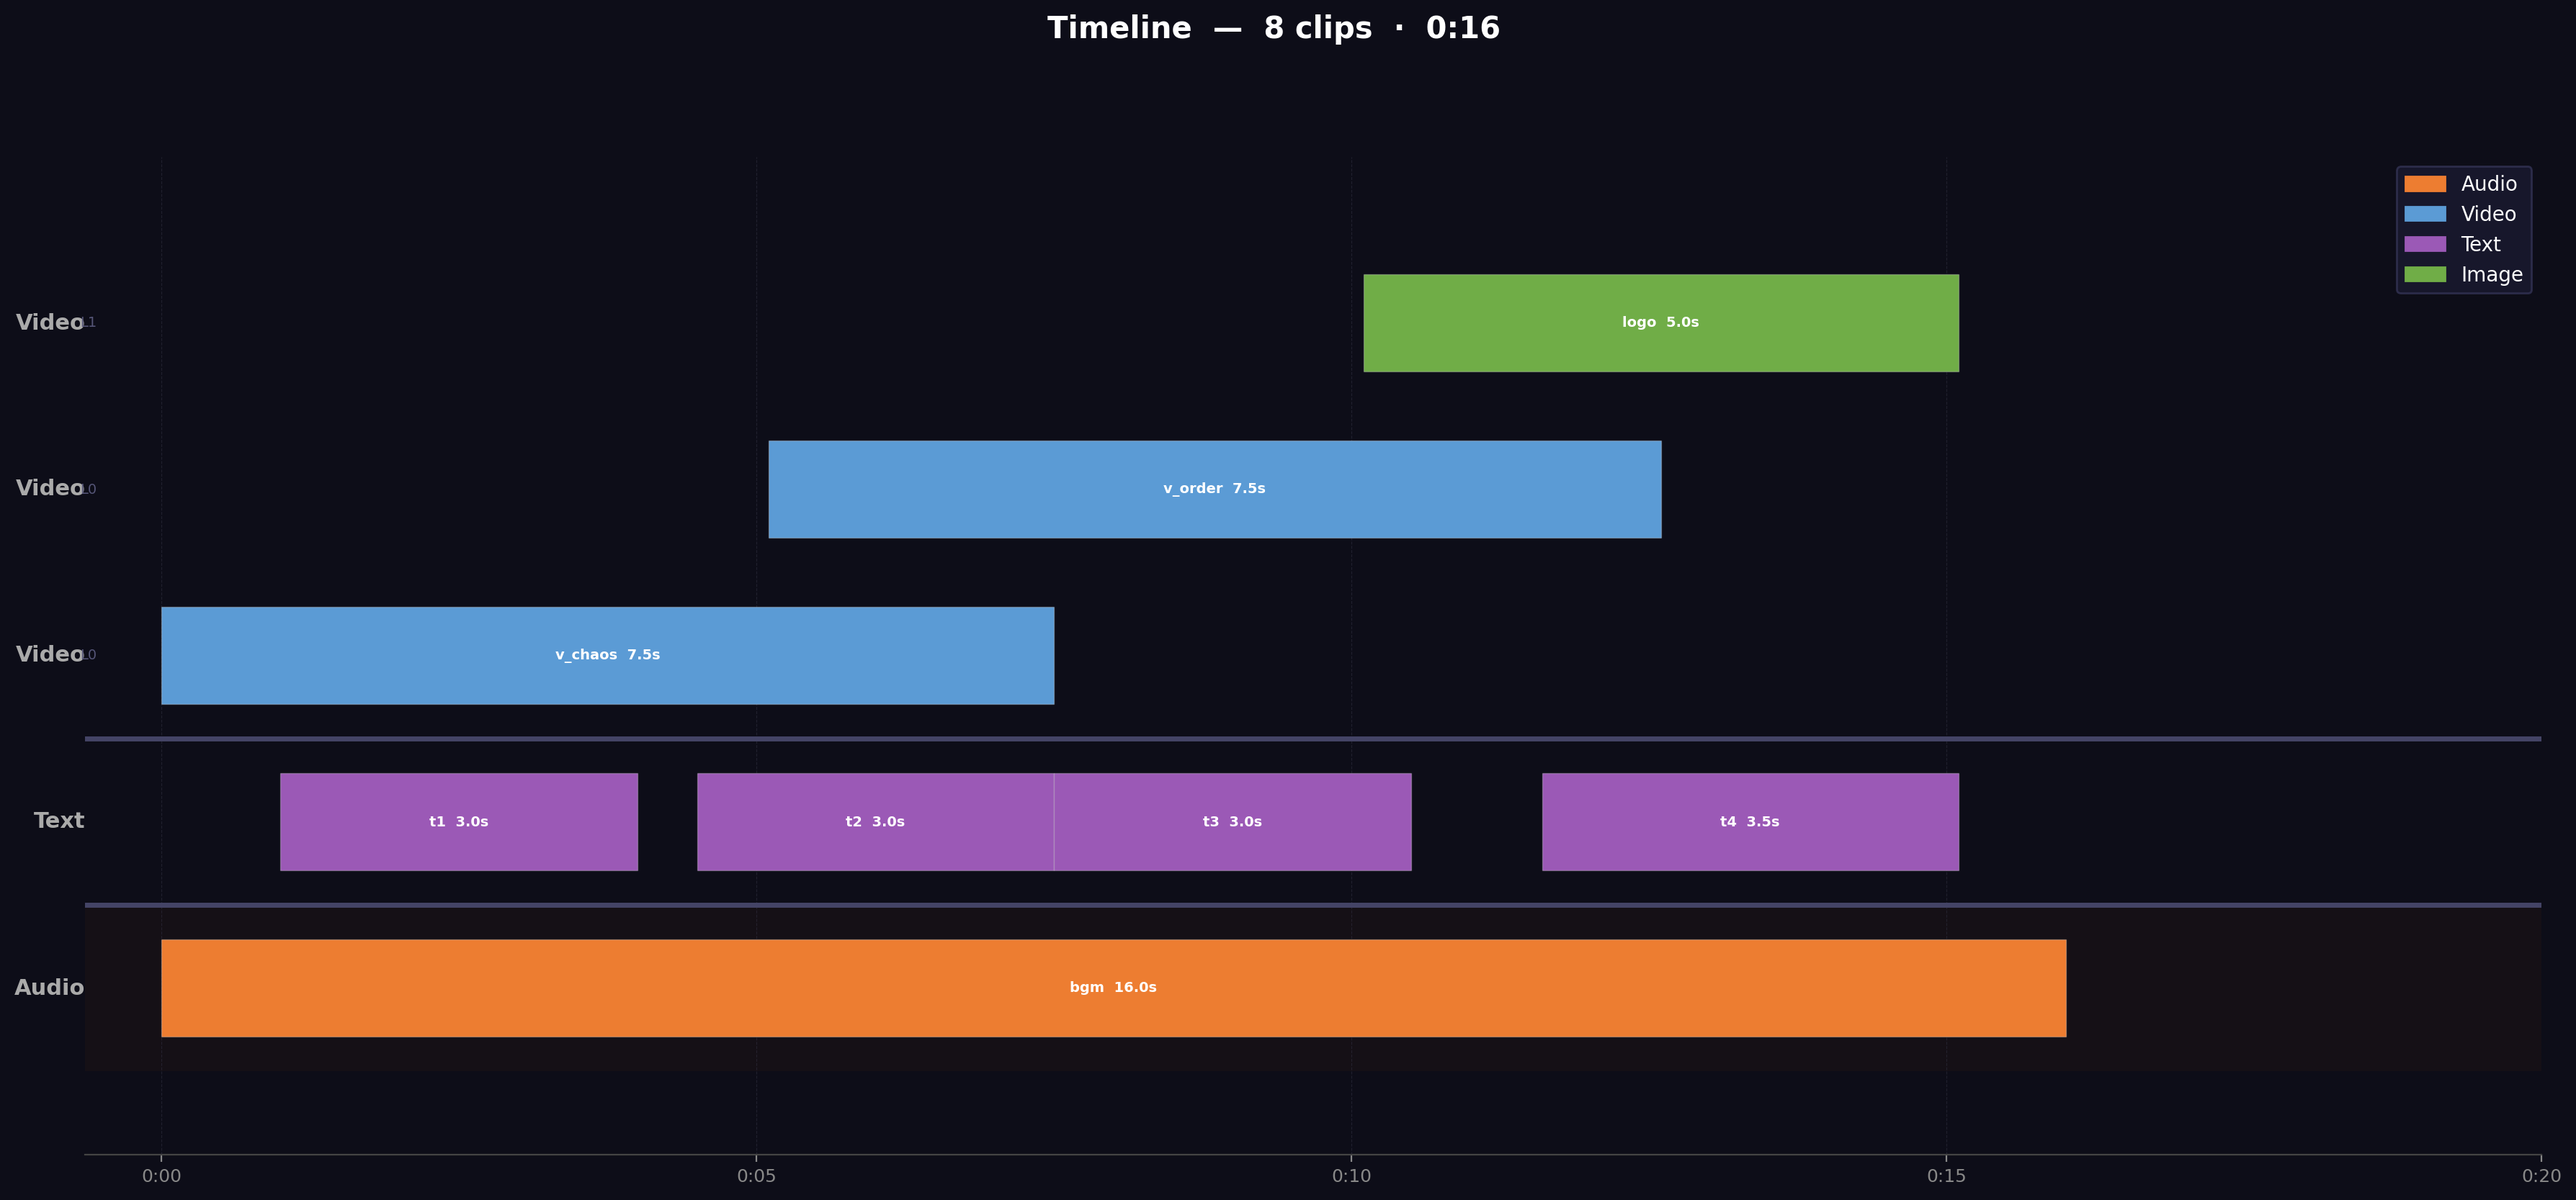
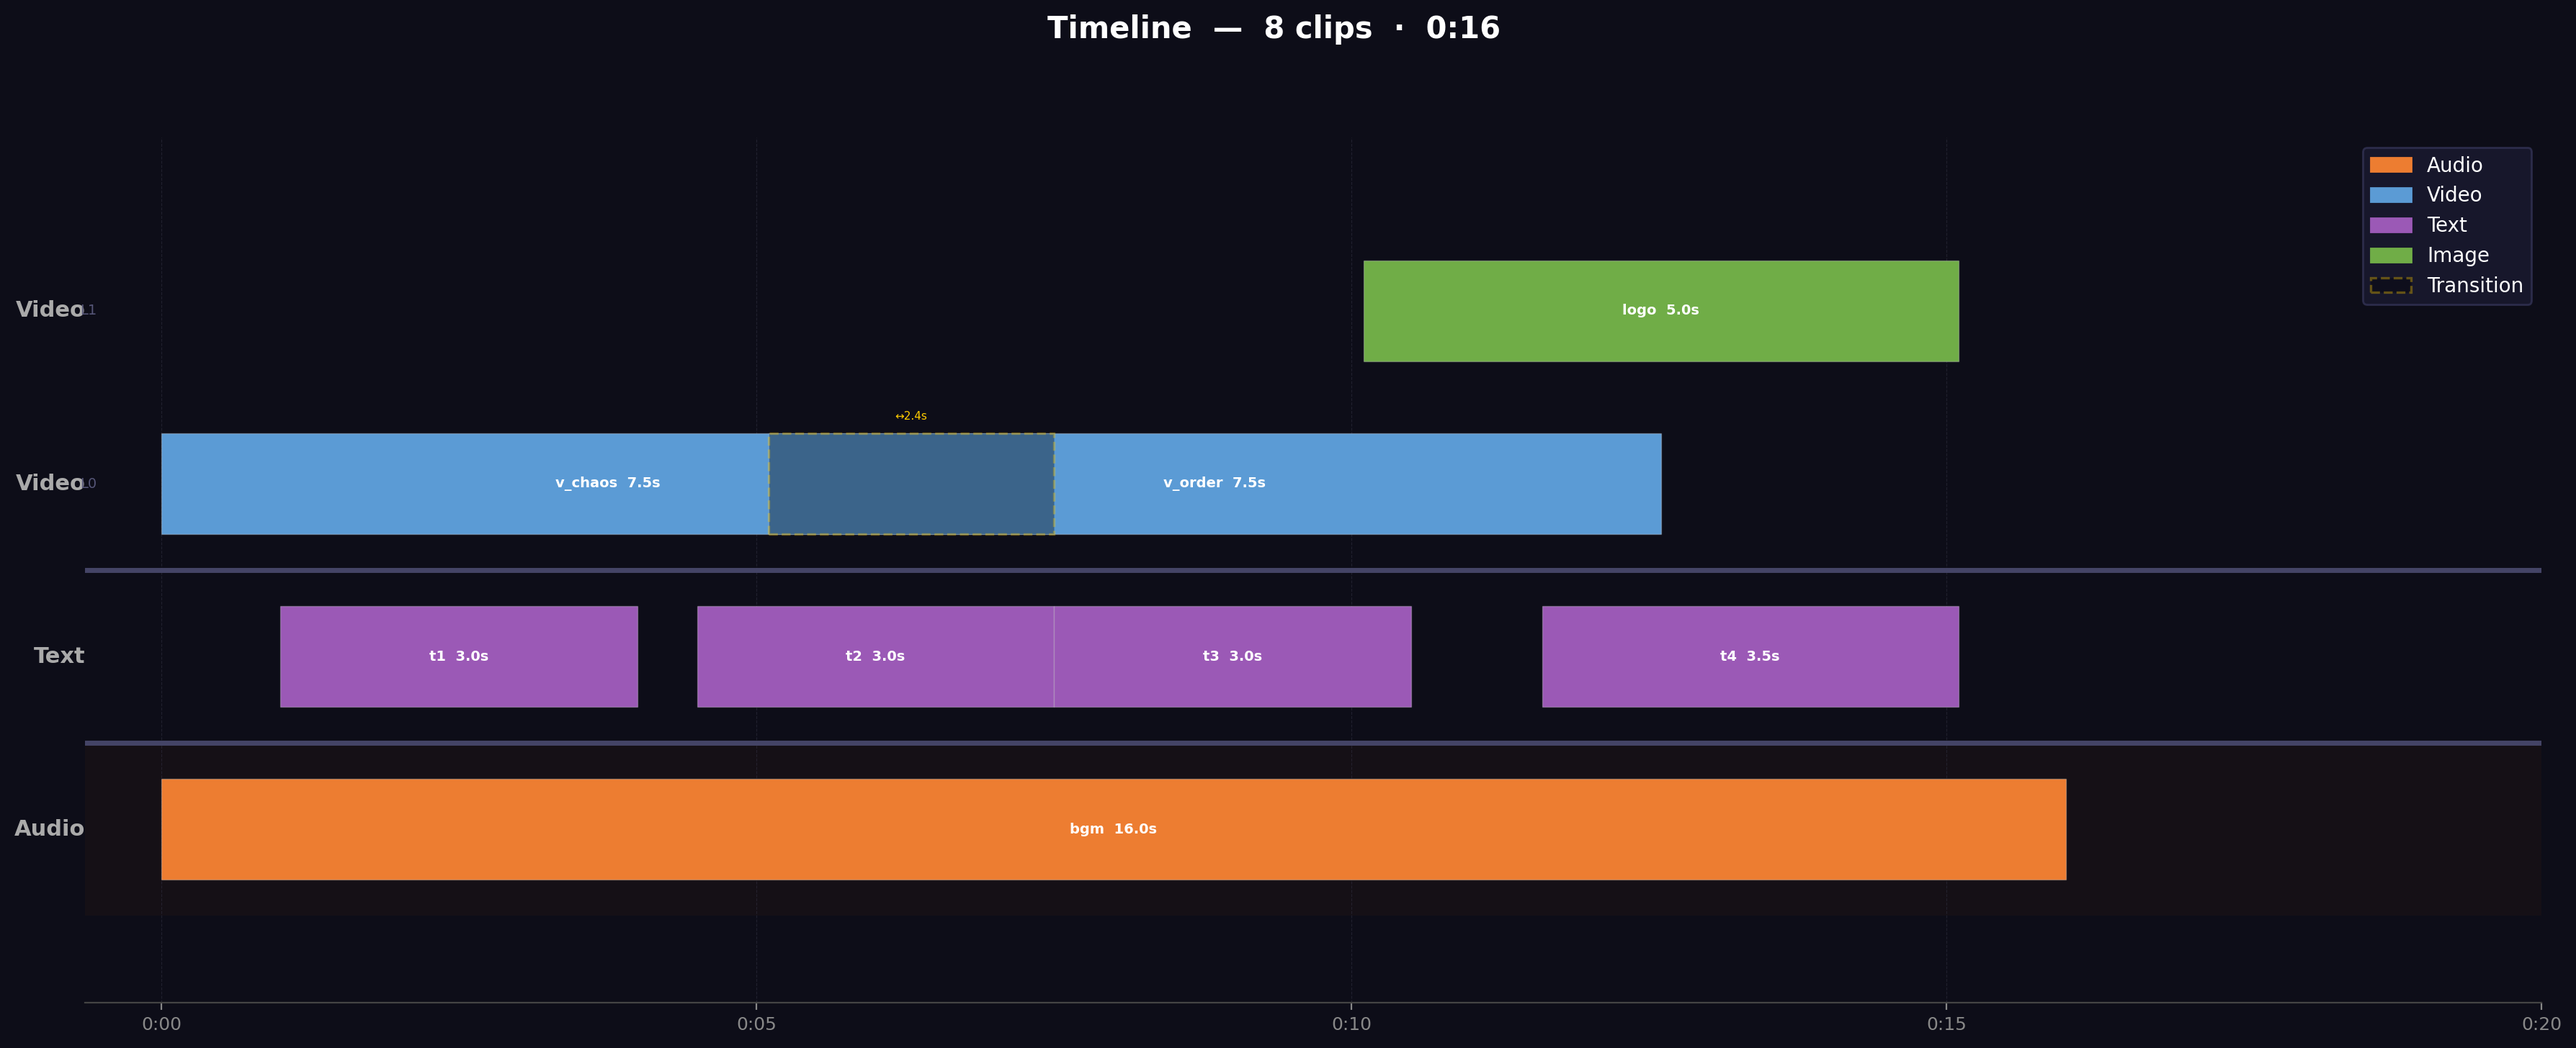
feat: group transition-connected clips on same graph track, highlight overlap regions

diff --git a/kinetix/timeline_graph.py b/kinetix/timeline_graph.py
@@ -1,7 +1,7 @@
 """Generate multi-track timeline (剪映-style).
 
 Tracks: Video (by layer), Text, Audio (one continuous row).
-Each clip = colored horizontal bar at exact time position.
+Transition-connected clips share the same track, with overlap region highlighted.
 """
 
 from __future__ import annotations
@@ -12,7 +12,7 @@ matplotlib.use("Agg")
 import matplotlib.pyplot as plt
 import matplotlib.patches as mpatches
 
-from .ast_nodes import AssetType, KinetiXDocument
+from .ast_nodes import AssetType, KinetiXDocument, TimelineEntry
 
 _COLORS = {
     AssetType.VIDEO: "#5B9BD5",
@@ -25,32 +25,36 @@ _BAR_H = 0.7
 
 
 def generate_timeline_graph(doc: KinetiXDocument, output_path: str = "timeline") -> str:
-    entries = []
+    entries: list[dict] = []
     for e in doc.timeline:
         st = e.start_time if isinstance(e.start_time, (int, float)) else 0
         dur = e.duration or 1.0
         a = doc.assets.get(e.asset_id)
         at = a.type if a else AssetType.VIDEO
-        entries.append((e.asset_id, st, st + dur, e.layer, at))
+        entries.append({
+            "id": e.asset_id, "start": st, "end": st + dur,
+            "layer": e.layer, "type": at,
+            "transition": e.transition,
+            "transition_dur": e.transition_dur,
+        })
 
     if not entries:
         return _empty(output_path)
 
-    t0 = min(e[1] for e in entries)
-    t1 = max(e[2] for e in entries)
+    t0 = min(e["start"] for e in entries)
+    t1 = max(e["end"] for e in entries)
     span = max(t1 - t0, 1.0)
 
     # ---- Row layout ----
-    # group by type; within each type, primary sort by layer, then auto-split overlapping clips
     video_layers: dict[int, list] = {}
     text_clips, audio_clips = [], []
     for e in entries:
-        if e[4] == AssetType.AUDIO:
+        if e["type"] == AssetType.AUDIO:
             audio_clips.append(e)
-        elif e[4] == AssetType.TEXT:
+        elif e["type"] == AssetType.TEXT:
             text_clips.append(e)
         else:
-            video_layers.setdefault(e[3], []).append(e)
+            video_layers.setdefault(e["layer"], []).append(e)
 
     # Build rows bottom-up: Audio → Text → Video (higher layer = top)
     rows: list[tuple[str, str, list]] = []
@@ -60,12 +64,11 @@ def generate_timeline_graph(doc: KinetiXDocument, output_path: str = "timeline")
         rows.append(("text", "", sub))
     for ly in sorted(video_layers):
         label = f"L{ly}" if len(video_layers) > 1 else ""
-        for sub in _split_overlapping(video_layers[ly]):
+        for sub in _lay_out_video_track(video_layers[ly]):
             rows.append(("video", label, sub))
 
     n_rows = len(rows)
     row_h = 1.2
-    track_gap = 0.8
 
     fig_w = max(22, span / 8)
     fig_h = max(n_rows * row_h + 3.0, 5.5)
@@ -81,17 +84,16 @@ def generate_timeline_graph(doc: KinetiXDocument, output_path: str = "timeline")
     for i, (track, flabel, clips) in enumerate(rows):
         y = i * row_h
 
-        # track separator (midpoint between rows)
+        # track separator
         if track != last_track and i > 0:
             ax.axhline(y=(i - 0.5) * row_h, color="#444466", linewidth=2.5, linestyle="-")
         last_track = track
 
-        # background
         if track == "audio":
             ax.axhspan(y - row_h / 2, y + row_h / 2,
                        facecolor="#2a1a14", alpha=0.3, zorder=0)
 
-        # track label (left side)
+        # track label
         names = {"video": "Video", "text": "Text", "audio": "Audio"}
         ax.text(left_m, y, names[track], ha="right", va="center",
                 fontsize=11, fontweight="bold", color="#aaaaaa")
@@ -99,22 +101,40 @@ def generate_timeline_graph(doc: KinetiXDocument, output_path: str = "timeline")
             ax.text(left_m + span * 0.006, y, flabel, ha="right", va="center",
                     fontsize=7, color="#555577")
 
-        # bars
-        for name, start, end, layer, atype in clips:
+        # bars & transition overlaps
+        for j, clip in enumerate(clips):
+            name = clip["id"]
+            start = clip["start"]
+            end = clip["end"]
+            atype = clip["type"]
             w = end - start
             color = _COLORS.get(atype, "#666")
             ax.barh(y, w, _BAR_H, left=start, color=color,
                     edgecolor="#ffffff44", linewidth=0.5, zorder=3)
+
+            # Transition overlap: darken the overlapping tail with the NEXT clip
+            if j + 1 < len(clips):
+                nxt = clips[j + 1]
+                if nxt["start"] < end:
+                    xfade_start = nxt["start"]
+                    xfade_w = end - nxt["start"]
+                    ax.barh(y, xfade_w, _BAR_H, left=xfade_start,
+                            color="#000000", alpha=0.35, zorder=4,
+                            edgecolor="#ffcc00", linewidth=1.2, linestyle="--")
+                    # Small label
+                    xfade_mid = xfade_start + xfade_w / 2
+                    ax.text(xfade_mid, y + _BAR_H / 2 + 0.08,
+                            f"↔{xfade_w:.1f}s", ha="center", va="bottom",
+                            fontsize=5.5, color="#ffcc00", zorder=5)
+
             mid = start + w / 2
-            d = w
-            # Always show label when bar is wide enough
             if w > span * 0.008:
-                ax.text(mid, y, f"{name}  {d:.1f}s",
+                ax.text(mid, y, f"{name}  {w:.1f}s",
                         ha="center", va="center", fontsize=7,
-                        color="white", fontweight="bold", zorder=4)
+                        color="white", fontweight="bold", zorder=6)
             elif w > span * 0.003:
                 ax.text(mid, y, name, ha="center", va="center",
-                        fontsize=6.5, color="white", zorder=4)
+                        fontsize=6.5, color="white", zorder=6)
 
     # ---- Axis ----
     ax.set_xlim(left_m, right_m)
@@ -136,13 +156,18 @@ def generate_timeline_graph(doc: KinetiXDocument, output_path: str = "timeline")
     # ---- Legend ----
     seen = set()
     patches = []
-    for _, _, _, _, t in entries:
+    for e in entries:
+        t = e["type"]
         if t not in seen:
             seen.add(t)
             patches.append(mpatches.Patch(
                 color=_COLORS.get(t, "#666"),
                 label={AssetType.VIDEO: "Video", AssetType.IMAGE: "Image",
                        AssetType.AUDIO: "Audio", AssetType.TEXT: "Text"}.get(t, "?")))
+    # Add transition legend
+    patches.append(mpatches.Patch(
+        facecolor="#000000", alpha=0.35, edgecolor="#ffcc00",
+        linewidth=1.2, linestyle="--", label="Transition"))
     ax.legend(handles=patches, loc="upper right", fontsize=10,
               facecolor="#1a1a30", edgecolor="#333355", labelcolor="white")
 
@@ -161,19 +186,56 @@ def _split_overlapping(clips):
     """Greedy split: put overlapping clips onto separate sub-tracks."""
     if not clips:
         return []
-    # sort by start time
-    sorted_clips = sorted(clips, key=lambda c: c[1])
-    tracks = []  # each track is list of clips, guaranteed no overlap within a track
+    sorted_clips = sorted(clips, key=lambda c: c["start"])
+    tracks = []
     for clip in sorted_clips:
         placed = False
         for track in tracks:
-            if clip[1] >= track[-1][2]:  # starts after last clip ends
+            if clip["start"] >= track[-1]["end"]:
                 track.append(clip)
                 placed = True
                 break
         if not placed:
             tracks.append([clip])
     return tracks
+
+
+def _lay_out_video_track(clips):
+    """Layout video clips: transition-connected clips share a track."""
+    if not clips:
+        return []
+    sorted_clips = sorted(clips, key=lambda c: c["start"])
+
+    # Step 1: build transition chains (sequential clips with overlap on same layer)
+    chains: list[list] = []
+    current_chain = [sorted_clips[0]]
+    for i in range(1, len(sorted_clips)):
+        prev = current_chain[-1]
+        curr = sorted_clips[i]
+        # Same chain if curr starts before prev ends (overlapping = transitional)
+        if curr["start"] < prev["end"]:
+            current_chain.append(curr)
+        else:
+            chains.append(current_chain)
+            current_chain = [curr]
+    chains.append(current_chain)
+
+    # Step 2: flatten — each chain is one track, non-chain clips go through _split_overlapping
+    result = []
+    for chain in chains:
+        if len(chain) == 1:
+            # Single clip: try to place it on an existing track, or create new
+            placed = False
+            for track in result:
+                if chain[0]["start"] >= track[-1]["end"]:
+                    track.append(chain[0])
+                    placed = True
+                    break
+            if not placed:
+                result.append(chain)
+        else:
+            result.append(chain)
+    return result
 
 
 def _tick(span):
